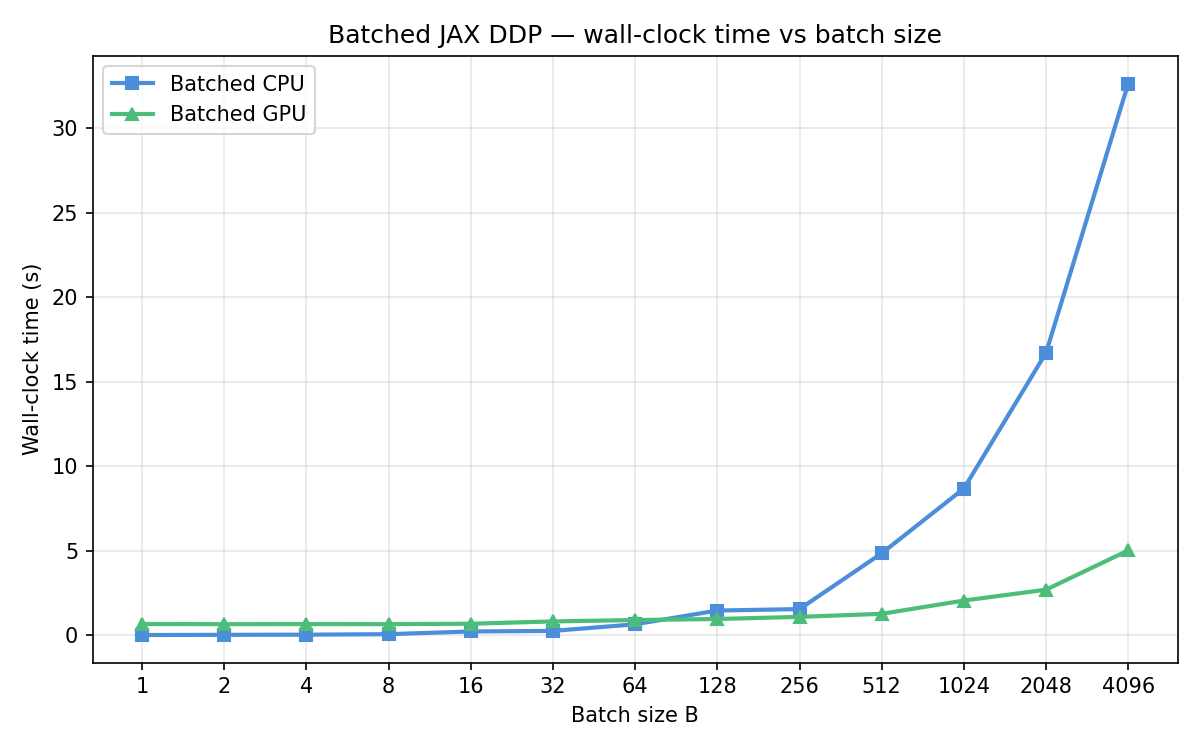
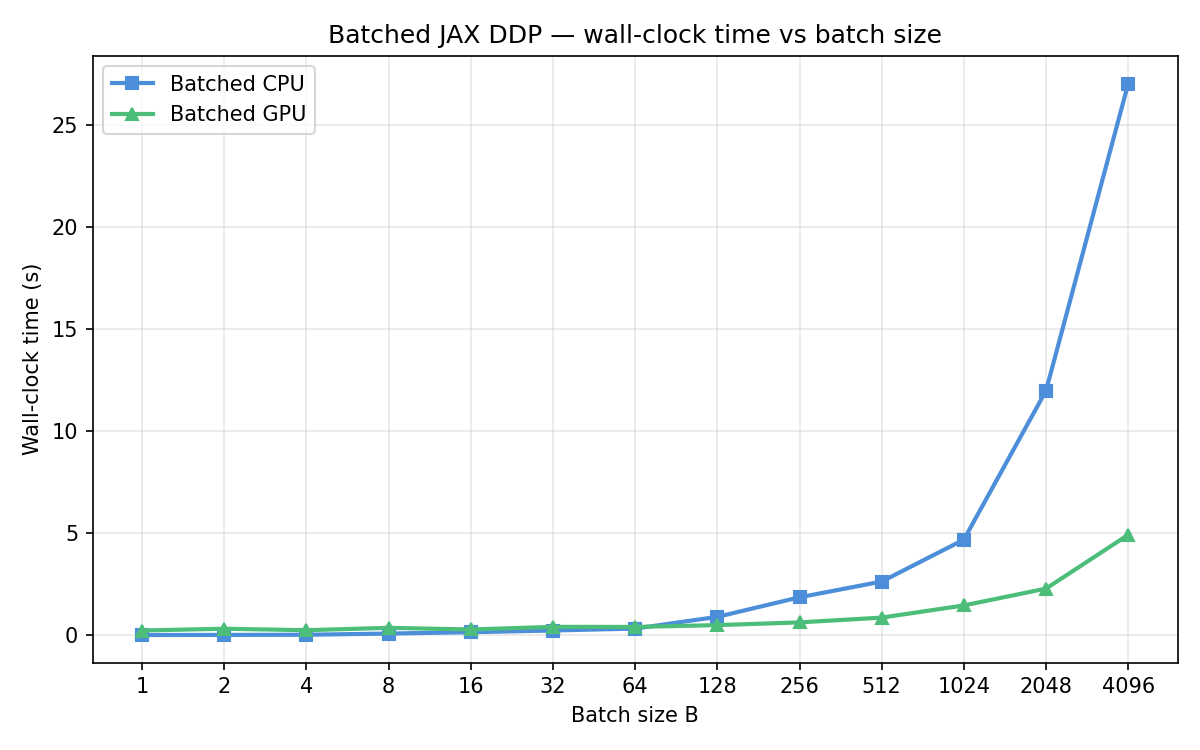
add termination condition and armijo early stopping

diff --git a/src/jaxDDP.py b/src/jaxDDP.py
@@ -27,11 +27,11 @@ class JaxDDP:
         self.dyn_derivs = lambda x, u: (self.f_x(x,u), self.f_u(x,u))
 
         self.rollout  = jit(self._rollout)
-        self.backward = jax.jit(self._backward, static_argnums=(2,)) # reg
+        self.backward = jax.jit(self._backward, static_argnames=('reg')) 
         self.forward = jit(self._forward)
         self.armijo_condition = jit(self._armijo_condition)
         self.total_cost = jit(self._total_cost)
-        self.solve = jax.jit(self._solve, static_argnums=(2, 3, 4, 5, 6))  # n_iter, reg, rho, beta, max_iter
+        self.solve = jax.jit(self._solve, static_argnames=('n_iter', 'termination_tol', 'reg', 'ls_rho', 'ls_beta', 'ls_max_iter'))
         
     def _backward(
         self,
@@ -111,6 +111,7 @@ class JaxDDP:
         x0,  
         us_guess,
         n_iter: int,
+        termination_tol = 1e-4,
         # Backward parameters:
         reg: float = 1e-4,
         # Line search parameters:
@@ -118,18 +119,24 @@ class JaxDDP:
         ls_beta: float = 1e-4,
         ls_max_iter: int = 10,
     ):        
-        def solve_scan(traj, _):
-            xs,us = traj
+        B = us_guess.shape[0]
+        
+        def solve_scan(traj):
+            xs,us, _, it = traj
             ks, Ks, dV1, dV2 = self._backward(xs, us, reg)
             new_xs, new_us = self._forward_ls(xs, us, ks, Ks, dV1, dV2, ls_rho, ls_beta, ls_max_iter)
-            return (new_xs, new_us), None
+            return new_xs, new_us, dV1, it+1
 
         carry = (
             self._rollout(x0, us_guess),
-            us_guess
+            us_guess,
+            jnp.inf * jnp.ones(B), # dV1
+            0 # iter count 
         )   
         
-        (xs,us), _ = jax.lax.scan(solve_scan, carry, None, length=n_iter)
+        cond_fn = lambda carry: (jnp.abs(carry[2]).max() > termination_tol) & (carry[3] < n_iter)
+        
+        xs,us,_,_ = jax.lax.while_loop(cond_fn, solve_scan, carry)
         
         return xs,us
     
@@ -180,9 +187,8 @@ class JaxDDP:
         B, _, _ = xs.shape
         J_nom = self._total_cost(xs, us)
         
-        # TODO: no early exit for now, I might want to rewrite it with lax.while_loop
-        def forward_ls_scan(carry, _):
-            new_xs, new_us, alpha, accepted = carry
+        def forward_ls_scan(carry):
+            new_xs, new_us, alpha, accepted, it = carry
             try_xs, try_us = self._forward(xs, us, ks, Ks, alpha)
             armijo_ok = self._armijo_condition(try_xs, try_us, J_nom, alpha, dV1, dV2, beta)
             newly_accepted = armijo_ok & ~accepted
@@ -190,16 +196,19 @@ class JaxDDP:
             new_us = jnp.where(newly_accepted[:, None, None], try_us, new_us)
             accepted = accepted | newly_accepted
             alpha = jnp.where(accepted, alpha, alpha * rho)
-            return (new_xs, new_us, alpha, accepted), None
+            return new_xs, new_us, alpha, accepted, it+1
             
         carry = (
             xs, 
             us, 
             jnp.ones(B), # alphas
-            jnp.zeros(B, dtype=bool) # accepted
+            jnp.zeros(B, dtype=bool), # accepted
+            0 # iter count
         )
         
-        (new_xs, new_us, _, _), _ = jax.lax.scan(forward_ls_scan, carry, None, length=max_iter)
+        cond_fn = lambda carry: ~carry[3].all() & (carry[4] < max_iter)
+        
+        new_xs, new_us, _, _, _ = jax.lax.while_loop(cond_fn, forward_ls_scan, carry)
         
         return new_xs, new_us
             

diff --git a/README.md b/README.md
@@ -1,11 +1,23 @@
-# torchDDP
+# jaxDDP
 
-A PyTorch-based differentiable dynamic programming implementation. It solves batched problems on GPUs.
+A JAX-based differentiable dynamic programming implementation. It solves batched problems on GPUs.
 
-PyTorch Benchmark on AMD Ryzen 9 9950X batched vs unbatched:
-
-![benchmark_torch](imgs/benchmark_torch.png)
-
-JAX Benchmark on NVIDIA GeForce RTX 4060 and Intel Core i9-14900HX batched CPU vs batched GPU:
+Benchmark on NVIDIA GeForce RTX 4060 and Intel Core i9-14900HX batched CPU vs batched GPU:
 
 ![benchmark_jax_gpu](imgs/benchmark_jax_gpu.png)
+
+| B | CPU (s) | GPU (s) | GPU speedup |
+|---|---|---|---|
+| 1 | 0.011 | 0.232 | 0.05× |
+| 2 | 0.016 | 0.319 | 0.05× |
+| 4 | 0.025 | 0.247 | 0.10× |
+| 8 | 0.082 | 0.363 | 0.23× |
+| 16 | 0.150 | 0.283 | 0.53× |
+| 32 | 0.232 | 0.411 | 0.56× |
+| 64 | 0.327 | 0.408 | 0.80× |
+| 128 | 0.901 | 0.496 | 1.82× |
+| 256 | 1.860 | 0.629 | 2.96× |
+| 512 | 2.632 | 0.864 | 3.05× |
+| 1024 | 4.688 | 1.461 | 3.21× |
+| 2048 | 11.992 | 2.287 | 5.24× |
+| 4096 | 27.049 | 4.924 | 5.50× |
